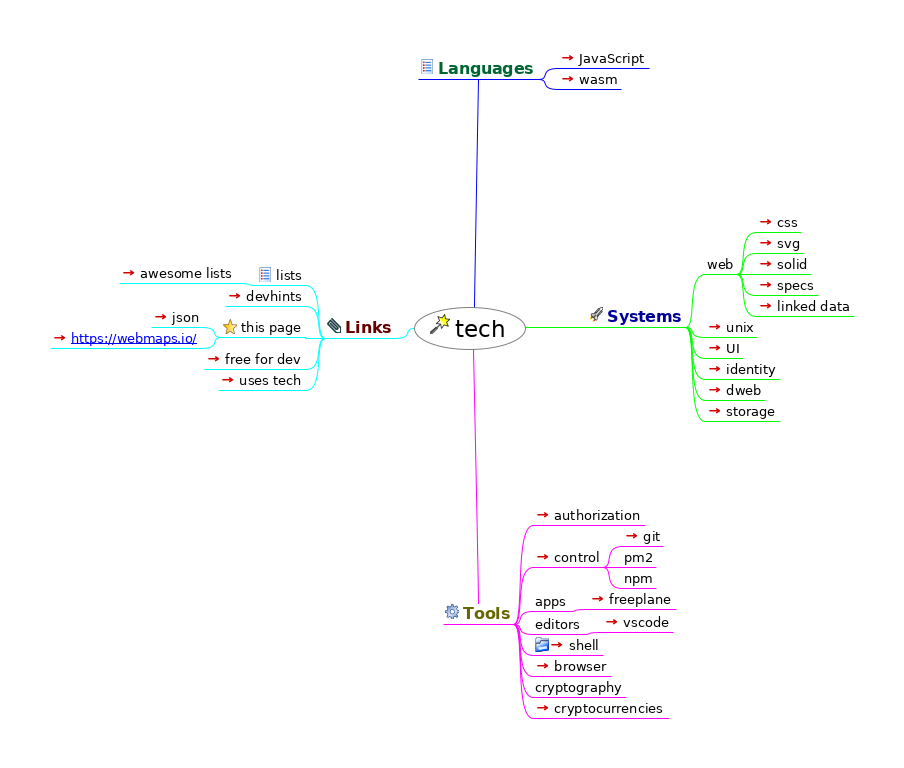
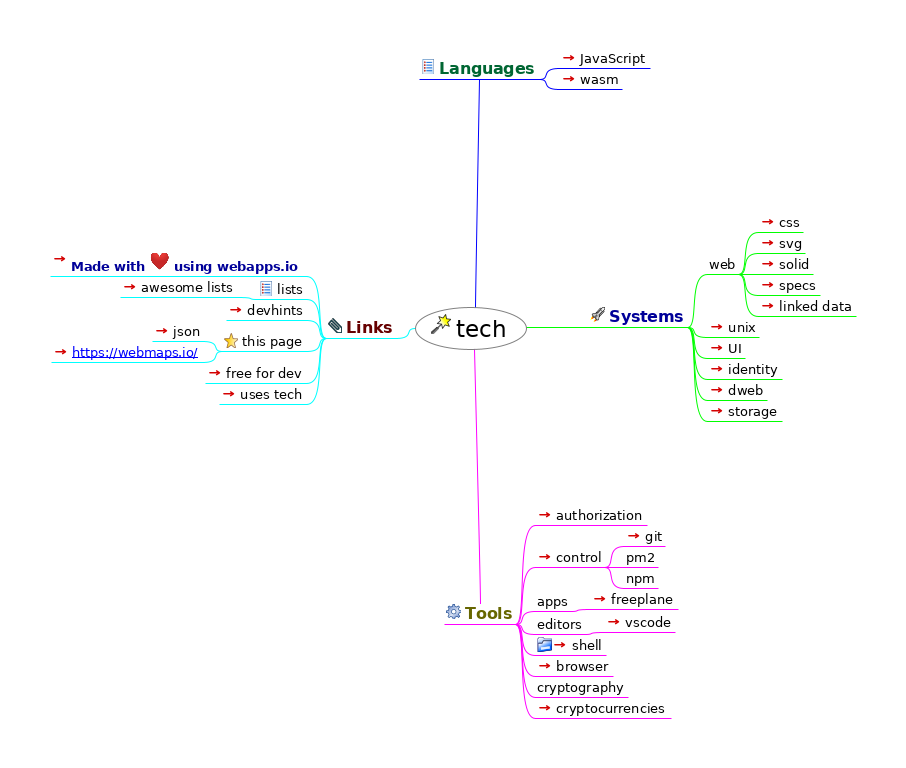
add made with heart

diff --git a/index.html b/index.html
@@ -23,48 +23,51 @@
                    };
                };
           
-          --></script></head><body><h1>tech</h1><div style="width:96%;  padding:2%;  margin-bottom:10px;  border: 0px;  text-align:center;  vertical-align:center;"><img src="index.html_files/image.png" style="margin-bottom:10px; &#9;border: 0px; &#9;text-align:center; &#9;vertical-align:center;" alt="Imagemap" usemap="#fm_imagemap" /></div><map name="fm_imagemap" id="fm_imagemap"><area shape="rect" href="#FMID_237352286FM" alt="tech" title="tech" coords="414,307,526,350" />
-<area shape="rect" href="#FMID_176155545FM" alt="Languages" title="Languages" coords="418,59,539,79" />
-<area shape="rect" href="../JavaScript/index.html" alt="JavaScript" title="JavaScript" coords="558,50,649,68" />
-<area shape="rect" href="languages/wasm/index.html" alt="wasm" title="wasm" coords="558,71,621,89" />
-<area shape="rect" href="#FMID_527312312FM" alt="Systems" title="Systems" coords="587,307,686,327" />
-<area shape="rect" href="#FMID_532002583FM" alt="web" title="web" coords="705,256,737,274" />
-<area shape="rect" href="css.html" alt="css" title="css" coords="756,214,801,232" />
-<area shape="rect" href="https://www.w3schools.com/graphics/svg_reference.asp" alt="svg" title="svg" coords="756,235,803,253" />
-<area shape="rect" href="../solid/index.html" alt="solid" title="solid" coords="756,256,811,274" />
-<area shape="rect" href="../specs/index.html" alt="specs" title="specs" coords="756,277,818,295" />
-<area shape="rect" href="../linkeddata/index.html.html" alt="linked data" title="linked data" coords="756,298,854,316" />
-<area shape="rect" href="unix/index.html" alt="unix" title="unix" coords="705,319,757,337" />
-<area shape="rect" href="UI/index.html" alt="UI" title="UI" coords="705,340,743,358" />
-<area shape="rect" href="identity/index.html" alt="identity" title="identity" coords="705,361,780,379" />
-<area shape="rect" href="dweb/index.html" alt="dweb" title="dweb" coords="705,382,765,400" />
-<area shape="rect" href="storage/index.html" alt="storage" title="storage" coords="705,403,780,421" />
-<area shape="rect" href="#FMID_1810859973FM" alt="Tools" title="Tools" coords="443,604,514,624" />
-<area shape="rect" href="authorization/index.html" alt="authorization" title="authorization" coords="533,507,645,525" />
-<area shape="rect" href="control/index.html" alt="control" title="control" coords="533,549,603,567" />
-<area shape="rect" href="control/git.html" alt="git" title="git" coords="622,528,663,546" />
-<area shape="rect" href="#FMID_901084502FM" alt="pm2" title="pm2" coords="622,549,656,567" />
-<area shape="rect" href="#FMID_677687213FM" alt="npm" title="npm" coords="622,570,656,588" />
-<area shape="rect" href="#FMID_453742222FM" alt="apps" title="apps" coords="533,593,569,611" />
-<area shape="rect" href="freeplane.html" alt="freeplane" title="freeplane" coords="588,591,676,609" />
-<area shape="rect" href="#FMID_1019017499FM" alt="editors" title="editors" coords="533,616,583,634" />
-<area shape="rect" href="https://code.visualstudio.com/" alt="vscode" title="vscode" coords="602,614,673,632" />
-<area shape="rect" href="shell/index.html" alt="shell" title="shell" coords="533,637,603,655" />
-<area shape="rect" href="browser/index.html" alt="browser" title="browser" coords="533,658,611,676" />
-<area shape="rect" href="#FMID_697718730FM" alt="cryptography" title="cryptography" coords="533,679,626,697" />
-<area shape="rect" href="cryptocurrencies/index.html" alt="cryptocurrencies" title="cryptocurrencies" coords="533,700,669,718" />
-<area shape="rect" href="#FMID_777477932FM" alt="Links" title="Links" coords="325,318,395,338" />
-<area shape="rect" href="#FMID_21985093FM" alt="lists" title="lists" coords="256,267,306,285" />
-<area shape="rect" href="https://getawesomeness.herokuapp.com/get/js" alt="awesome lists" title="awesome lists" coords="119,265,237,283" />
-<area shape="rect" href="https://devhints.io/" alt="devhints" title="devhints" coords="225,288,306,306" />
-<area shape="rect" href="#FMID_117142409FM" alt="this page" title="this page" coords="221,319,306,337" />
-<area shape="rect" href="index.json" alt="json" title="json" coords="151,309,202,327" />
-<area shape="rect" href="https://webmaps.io/" alt="https://webmaps.io/" title="https://webmaps.io/" coords="50,330,202,348" />
-<area shape="rect" href="https://free-for.dev/#/" alt="free for dev" title="free for dev" coords="204,351,306,369" />
-<area shape="rect" href="https://uses.tech/" alt="uses tech" title="uses tech" coords="218,372,306,390" />
+          --></script></head><body><h1>tech</h1><div style="width:96%;  padding:2%;  margin-bottom:10px;  border: 0px;  text-align:center;  vertical-align:center;"><img src="index.html_files/image.png" style="margin-bottom:10px; &#9;border: 0px; &#9;text-align:center; &#9;vertical-align:center;" alt="Imagemap" usemap="#fm_imagemap" /></div><map name="fm_imagemap" id="fm_imagemap"><area shape="rect" href="#FMID_237352286FM" alt="tech" title="tech" coords="415,307,527,350" />
+<area shape="rect" href="#FMID_176155545FM" alt="Languages" title="Languages" coords="419,59,540,79" />
+<area shape="rect" href="../JavaScript/index.html" alt="JavaScript" title="JavaScript" coords="559,50,650,68" />
+<area shape="rect" href="languages/wasm/index.html" alt="wasm" title="wasm" coords="559,71,622,89" />
+<area shape="rect" href="#FMID_527312312FM" alt="Systems" title="Systems" coords="588,307,688,327" />
+<area shape="rect" href="#FMID_532002583FM" alt="web" title="web" coords="707,256,739,274" />
+<area shape="rect" href="css.html" alt="css" title="css" coords="758,214,803,232" />
+<area shape="rect" href="https://www.w3schools.com/graphics/svg_reference.asp" alt="svg" title="svg" coords="758,235,805,253" />
+<area shape="rect" href="../solid/index.html" alt="solid" title="solid" coords="758,256,813,274" />
+<area shape="rect" href="../specs/index.html" alt="specs" title="specs" coords="758,277,820,295" />
+<area shape="rect" href="../linkeddata/index.html" alt="linked data" title="linked data" coords="758,298,856,316" />
+<area shape="rect" href="unix/index.html" alt="unix" title="unix" coords="707,319,759,337" />
+<area shape="rect" href="UI/index.html" alt="UI" title="UI" coords="707,340,745,358" />
+<area shape="rect" href="identity/index.html" alt="identity" title="identity" coords="707,361,782,379" />
+<area shape="rect" href="dweb/index.html" alt="dweb" title="dweb" coords="707,382,767,400" />
+<area shape="rect" href="storage/index.html" alt="storage" title="storage" coords="707,403,782,421" />
+<area shape="rect" href="#FMID_1810859973FM" alt="Tools" title="Tools" coords="444,604,516,624" />
+<area shape="rect" href="authorization/index.html" alt="authorization" title="authorization" coords="535,507,647,525" />
+<area shape="rect" href="control/index.html" alt="control" title="control" coords="535,549,605,567" />
+<area shape="rect" href="control/git.html" alt="git" title="git" coords="624,528,665,546" />
+<area shape="rect" href="#FMID_901084502FM" alt="pm2" title="pm2" coords="624,549,658,567" />
+<area shape="rect" href="#FMID_677687213FM" alt="npm" title="npm" coords="624,570,658,588" />
+<area shape="rect" href="#FMID_453742222FM" alt="apps" title="apps" coords="535,593,571,611" />
+<area shape="rect" href="freeplane.html" alt="freeplane" title="freeplane" coords="590,591,678,609" />
+<area shape="rect" href="#FMID_1019017499FM" alt="editors" title="editors" coords="535,616,585,634" />
+<area shape="rect" href="https://code.visualstudio.com/" alt="vscode" title="vscode" coords="604,614,675,632" />
+<area shape="rect" href="shell/index.html" alt="shell" title="shell" coords="535,637,606,655" />
+<area shape="rect" href="browser/index.html" alt="browser" title="browser" coords="535,658,613,676" />
+<area shape="rect" href="#FMID_697718730FM" alt="cryptography" title="cryptography" coords="535,679,628,697" />
+<area shape="rect" href="cryptocurrencies/index.html" alt="cryptocurrencies" title="cryptocurrencies" coords="535,700,671,718" />
+<area shape="rect" href="#FMID_777477932FM" alt="Links" title="Links" coords="326,318,396,338" />
+<area shape="rect" href="https://webapps.io/" alt="Made with  using webapps.io" title="Made with  using webapps.io" coords="50,251,307,276" />
+<area shape="rect" href="#FMID_21985093FM" alt="lists" title="lists" coords="257,281,307,299" />
+<area shape="rect" href="https://getawesomeness.herokuapp.com/get/js" alt="awesome lists" title="awesome lists" coords="120,279,238,297" />
+<area shape="rect" href="https://devhints.io/" alt="devhints" title="devhints" coords="226,302,307,320" />
+<area shape="rect" href="#FMID_117142409FM" alt="this page" title="this page" coords="222,333,307,351" />
+<area shape="rect" href="index.json" alt="json" title="json" coords="152,323,203,341" />
+<area shape="rect" href="https://webmaps.io/" alt="https://webmaps.io/" title="https://webmaps.io/" coords="51,344,203,362" />
+<area shape="rect" href="https://free-for.dev/#/" alt="free for dev" title="free for dev" coords="205,365,307,383" />
+<area shape="rect" href="https://uses.tech/" alt="uses tech" title="uses tech" coords="219,386,307,404" />
 </map>
 
-<div class="node"><img src="index.html_files/hide.png" class="hideshow" alt="hide" onClick="toggle(&quot;N65543&quot;)" id="imgN65543" /><img src="index.html_files/icons/wizard.svg" alt="wizard" /> <a id="FMID_237352286FM" /><div class="nodecontent" style="color:#000000;font-size:150%;">tech</div><div class="content" id="N65543"><div class="node"><img src="index.html_files/hide.png" class="hideshow" alt="hide" onClick="toggle(&quot;N66444&quot;)" id="imgN66444" /><img src="index.html_files/icons/list.svg" alt="list" /> <a id="FMID_176155545FM" /><div class="nodecontent" style="color:#006633;font-size:100%;font-weight:bold;">Languages</div><div class="content" id="N66444"><div class="node"><img src="index.html_files/leaf.png" class="hideshow" alt="leaf" /><a id="FMID_546595456FM" /><div class="nodecontent" style="color:#000000;font-size:83%;"><a href="../JavaScript/index.html">JavaScript</a> <a href="../JavaScript/index.html"><img src="index.html_files/ilink.png" alt="User Link" style="border-width:0" /></a></div></div><div class="node"><img src="index.html_files/leaf.png" class="hideshow" alt="leaf" /><a id="FMID_1992588014FM" /><div class="nodecontent" style="color:#000000;font-size:83%;"><a href="languages/wasm/index.html">wasm</a> <a href="languages/wasm/index.html"><img src="index.html_files/ilink.png" alt="User Link" style="border-width:0" /></a></div></div></div></div><div class="node"><img src="index.html_files/hide.png" class="hideshow" alt="hide" onClick="toggle(&quot;N66562&quot;)" id="imgN66562" /><img src="index.html_files/icons/launch.svg" alt="launch" /> <a id="FMID_527312312FM" /><div class="nodecontent" style="color:#000099;font-size:100%;font-weight:bold;">Systems</div><div class="content" id="N66562"><div class="node"><img src="index.html_files/hide.png" class="hideshow" alt="hide" onClick="toggle(&quot;N66605&quot;)" id="imgN66605" /><a id="FMID_532002583FM" /><div class="nodecontent" style="color:#000000;font-size:83%;">web</div><div class="content" id="N66605"><div class="node"><img src="index.html_files/leaf.png" class="hideshow" alt="leaf" /><a id="FMID_1846113849FM" /><div class="nodecontent" style="color:#000000;font-size:83%;"><a href="css.html">css</a> <a href="css.html"><img src="index.html_files/ilink.png" alt="User Link" style="border-width:0" /></a></div></div><div class="node"><img src="index.html_files/leaf.png" class="hideshow" alt="leaf" /><a id="FMID_428457042FM" /><div class="nodecontent" style="color:#000000;font-size:83%;"><a href="https://www.w3schools.com/graphics/svg_reference.asp">svg</a> <a href="https://www.w3schools.com/graphics/svg_reference.asp"><img src="index.html_files/ilink.png" alt="User Link" style="border-width:0" /></a></div></div><div class="node"><img src="index.html_files/leaf.png" class="hideshow" alt="leaf" /><a id="FMID_1070141955FM" /><div class="nodecontent" style="color:#000000;font-size:83%;"><a href="../solid/index.html">solid</a> <a href="../solid/index.html"><img src="index.html_files/ilink.png" alt="User Link" style="border-width:0" /></a></div></div><div class="node"><img src="index.html_files/leaf.png" class="hideshow" alt="leaf" /><a id="FMID_1682894723FM" /><div class="nodecontent" style="color:#000000;font-size:83%;"><a href="../specs/index.html">specs</a> <a href="../specs/index.html"><img src="index.html_files/ilink.png" alt="User Link" style="border-width:0" /></a></div></div><div class="node"><img src="index.html_files/leaf.png" class="hideshow" alt="leaf" /><a id="FMID_1972132930FM" /><div class="nodecontent" style="color:#000000;font-size:83%;"><a href="../linkeddata/index.html.html">linked data</a> <a href="../linkeddata/index.html.html"><img src="index.html_files/ilink.png" alt="User Link" style="border-width:0" /></a></div></div></div></div><div class="node"><img src="index.html_files/leaf.png" class="hideshow" alt="leaf" /><a id="FMID_7338816FM" /><div class="nodecontent" style="color:#000000;font-size:83%;"><a href="unix/index.html">unix</a> <a href="unix/index.html"><img src="index.html_files/ilink.png" alt="User Link" style="border-width:0" /></a></div></div><div class="node"><img src="index.html_files/leaf.png" class="hideshow" alt="leaf" /><a id="FMID_1601511624FM" /><div class="nodecontent" style="color:#000000;font-size:83%;"><a href="UI/index.html">UI</a> <a href="UI/index.html"><img src="index.html_files/ilink.png" alt="User Link" style="border-width:0" /></a></div></div><div class="node"><img src="index.html_files/leaf.png" class="hideshow" alt="leaf" /><a id="FMID_879802849FM" /><div class="nodecontent" style="color:#000000;font-size:83%;"><a href="identity/index.html">identity</a> <a href="identity/index.html"><img src="index.html_files/ilink.png" alt="User Link" style="border-width:0" /></a></div></div><div class="node"><img src="index.html_files/leaf.png" class="hideshow" alt="leaf" /><a id="FMID_1672732454FM" /><div class="nodecontent" style="color:#000000;font-size:83%;"><a href="dweb/index.html">dweb</a> <a href="dweb/index.html"><img src="index.html_files/ilink.png" alt="User Link" style="border-width:0" /></a></div></div><div class="node"><img src="index.html_files/leaf.png" class="hideshow" alt="leaf" /><a id="FMID_1360108173FM" /><div class="nodecontent" style="color:#000000;font-size:83%;"><a href="storage/index.html">storage</a> <a href="storage/index.html"><img src="index.html_files/ilink.png" alt="User Link" style="border-width:0" /></a></div></div></div></div><div class="node"><img src="index.html_files/hide.png" class="hideshow" alt="hide" onClick="toggle(&quot;N67012&quot;)" id="imgN67012" /><img src="index.html_files/icons/executable.svg" alt="executable" /> <a id="FMID_1810859973FM" /><div class="nodecontent" style="color:#666600;font-size:100%;font-weight:bold;">Tools</div><div class="content" id="N67012"><div class="node"><img src="index.html_files/leaf.png" class="hideshow" alt="leaf" /><a id="FMID_1568925180FM" /><div class="nodecontent" style="color:#000000;font-size:83%;"><a href="authorization/index.html">authorization</a> <a href="authorization/index.html"><img src="index.html_files/ilink.png" alt="User Link" style="border-width:0" /></a></div></div><div class="node"><img src="index.html_files/hide.png" class="hideshow" alt="hide" onClick="toggle(&quot;N67092&quot;)" id="imgN67092" /><a id="FMID_1041005677FM" /><div class="nodecontent" style="color:#000000;font-size:83%;"><a href="control/index.html">control</a> <a href="control/index.html"><img src="index.html_files/ilink.png" alt="User Link" style="border-width:0" /></a></div><div class="content" id="N67092"><div class="node"><img src="index.html_files/leaf.png" class="hideshow" alt="leaf" /><a id="FMID_1536156446FM" /><div class="nodecontent" style="color:#000000;font-size:83%;"><a href="control/git.html">git</a> <a href="control/git.html"><img src="index.html_files/ilink.png" alt="User Link" style="border-width:0" /></a></div></div><div class="node"><img src="index.html_files/leaf.png" class="hideshow" alt="leaf" /><a id="FMID_901084502FM" /><div class="nodecontent" style="color:#000000;font-size:83%;">pm2</div></div><div class="node"><img src="index.html_files/leaf.png" class="hideshow" alt="leaf" /><a id="FMID_677687213FM" /><div class="nodecontent" style="color:#000000;font-size:83%;">npm</div></div></div></div><div class="node"><img src="index.html_files/hide.png" class="hideshow" alt="hide" onClick="toggle(&quot;N67238&quot;)" id="imgN67238" /><a id="FMID_453742222FM" /><div class="nodecontent" style="color:#000000;font-size:83%;">apps</div><div class="content" id="N67238"><div class="node"><img src="index.html_files/leaf.png" class="hideshow" alt="leaf" /><a id="FMID_756649779FM" /><div class="nodecontent" style="color:#000000;font-size:83%;"><a href="freeplane.html">freeplane</a> <a href="freeplane.html"><img src="index.html_files/ilink.png" alt="User Link" style="border-width:0" /></a></div></div></div></div><div class="node"><img src="index.html_files/hide.png" class="hideshow" alt="hide" onClick="toggle(&quot;N67311&quot;)" id="imgN67311" /><a id="FMID_1019017499FM" /><div class="nodecontent" style="color:#000000;font-size:83%;">editors</div><div class="content" id="N67311"><div class="node"><img src="index.html_files/leaf.png" class="hideshow" alt="leaf" /><a id="FMID_847676993FM" /><div class="nodecontent" style="color:#000000;font-size:83%;"><a href="https://code.visualstudio.com/">vscode</a> <a href="https://code.visualstudio.com/"><img src="index.html_files/ilink.png" alt="User Link" style="border-width:0" /></a></div></div></div></div><div class="node"><img src="index.html_files/leaf.png" class="hideshow" alt="leaf" /><img src="index.html_files/icons/folder.svg" alt="folder" /> <a id="FMID_1968717210FM" /><div class="nodecontent" style="color:#000000;font-size:83%;"><a href="shell/index.html">shell</a> <a href="shell/index.html"><img src="index.html_files/ilink.png" alt="User Link" style="border-width:0" /></a></div></div><div class="node"><img src="index.html_files/leaf.png" class="hideshow" alt="leaf" /><a id="FMID_220365950FM" /><div class="nodecontent" style="color:#000000;font-size:83%;"><a href="browser/index.html">browser</a> <a href="browser/index.html"><img src="index.html_files/ilink.png" alt="User Link" style="border-width:0" /></a></div></div><div class="node"><img src="index.html_files/leaf.png" class="hideshow" alt="leaf" /><a id="FMID_697718730FM" /><div class="nodecontent" style="color:#000000;font-size:83%;">cryptography</div></div><div class="node"><img src="index.html_files/leaf.png" class="hideshow" alt="leaf" /><a id="FMID_653198444FM" /><div class="nodecontent" style="color:#000000;font-size:83%;"><a href="cryptocurrencies/index.html">cryptocurrencies</a> <a href="cryptocurrencies/index.html"><img src="index.html_files/ilink.png" alt="User Link" style="border-width:0" /></a></div></div></div></div><div class="node"><img src="index.html_files/hide.png" class="hideshow" alt="hide" onClick="toggle(&quot;N67537&quot;)" id="imgN67537" /><img src="index.html_files/icons/attach.svg" alt="attach" /> <a id="FMID_777477932FM" /><div class="nodecontent" style="color:#660000;font-size:100%;font-weight:bold;">Links</div><div class="content" id="N67537"><div class="node"><img src="index.html_files/hide.png" class="hideshow" alt="hide" onClick="toggle(&quot;N67578&quot;)" id="imgN67578" /><img src="index.html_files/icons/list.svg" alt="list" /> <a id="FMID_21985093FM" /><div class="nodecontent" style="color:#000000;font-size:83%;">lists</div><div class="content" id="N67578"><div class="node"><img src="index.html_files/leaf.png" class="hideshow" alt="leaf" /><a id="FMID_588856980FM" /><div class="nodecontent" style="color:#000000;font-size:83%;"><a href="https://getawesomeness.herokuapp.com/get/js">awesome lists</a> <a href="https://getawesomeness.herokuapp.com/get/js"><img src="index.html_files/ilink.png" alt="User Link" style="border-width:0" /></a></div></div></div></div><div class="node"><img src="index.html_files/leaf.png" class="hideshow" alt="leaf" /><a id="FMID_1033702527FM" /><div class="nodecontent" style="color:#000000;font-size:83%;"><a href="https://devhints.io/">devhints</a> <a href="https://devhints.io/"><img src="index.html_files/ilink.png" alt="User Link" style="border-width:0" /></a></div></div><div class="node"><img src="index.html_files/hide.png" class="hideshow" alt="hide" onClick="toggle(&quot;N67693&quot;)" id="imgN67693" /><img src="index.html_files/icons/bookmark.svg" alt="bookmark" /> <a id="FMID_117142409FM" /><div class="nodecontent" style="color:#000000;font-size:83%;">this page</div><div class="content" id="N67693"><div class="node"><img src="index.html_files/leaf.png" class="hideshow" alt="leaf" /><a id="FMID_485260235FM" /><div class="nodecontent" style="color:#000000;font-size:83%;"><a href="index.json">json</a> <a href="index.json"><img src="index.html_files/ilink.png" alt="User Link" style="border-width:0" /></a></div></div><div class="node"><img src="index.html_files/leaf.png" class="hideshow" alt="leaf" /><a id="FMID_1630439828FM" /><div class="nodecontent" style="color:#000000;font-size:83%;"><a href="https://webmaps.io/">
+<div class="node"><img src="index.html_files/hide.png" class="hideshow" alt="hide" onClick="toggle(&quot;N65543&quot;)" id="imgN65543" /><img src="index.html_files/icons/wizard.svg" alt="wizard" /> <a id="FMID_237352286FM" /><div class="nodecontent" style="color:#000000;font-size:150%;">tech</div><div class="content" id="N65543"><div class="node"><img src="index.html_files/hide.png" class="hideshow" alt="hide" onClick="toggle(&quot;N66444&quot;)" id="imgN66444" /><img src="index.html_files/icons/list.svg" alt="list" /> <a id="FMID_176155545FM" /><div class="nodecontent" style="color:#006633;font-size:100%;font-weight:bold;">Languages</div><div class="content" id="N66444"><div class="node"><img src="index.html_files/leaf.png" class="hideshow" alt="leaf" /><a id="FMID_546595456FM" /><div class="nodecontent" style="color:#000000;font-size:83%;"><a href="../JavaScript/index.html">JavaScript</a> <a href="../JavaScript/index.html"><img src="index.html_files/ilink.png" alt="User Link" style="border-width:0" /></a></div></div><div class="node"><img src="index.html_files/leaf.png" class="hideshow" alt="leaf" /><a id="FMID_1992588014FM" /><div class="nodecontent" style="color:#000000;font-size:83%;"><a href="languages/wasm/index.html">wasm</a> <a href="languages/wasm/index.html"><img src="index.html_files/ilink.png" alt="User Link" style="border-width:0" /></a></div></div></div></div><div class="node"><img src="index.html_files/hide.png" class="hideshow" alt="hide" onClick="toggle(&quot;N66562&quot;)" id="imgN66562" /><img src="index.html_files/icons/launch.svg" alt="launch" /> <a id="FMID_527312312FM" /><div class="nodecontent" style="color:#000099;font-size:100%;font-weight:bold;">Systems</div><div class="content" id="N66562"><div class="node"><img src="index.html_files/hide.png" class="hideshow" alt="hide" onClick="toggle(&quot;N66605&quot;)" id="imgN66605" /><a id="FMID_532002583FM" /><div class="nodecontent" style="color:#000000;font-size:83%;">web</div><div class="content" id="N66605"><div class="node"><img src="index.html_files/leaf.png" class="hideshow" alt="leaf" /><a id="FMID_1846113849FM" /><div class="nodecontent" style="color:#000000;font-size:83%;"><a href="css.html">css</a> <a href="css.html"><img src="index.html_files/ilink.png" alt="User Link" style="border-width:0" /></a></div></div><div class="node"><img src="index.html_files/leaf.png" class="hideshow" alt="leaf" /><a id="FMID_428457042FM" /><div class="nodecontent" style="color:#000000;font-size:83%;"><a href="https://www.w3schools.com/graphics/svg_reference.asp">svg</a> <a href="https://www.w3schools.com/graphics/svg_reference.asp"><img src="index.html_files/ilink.png" alt="User Link" style="border-width:0" /></a></div></div><div class="node"><img src="index.html_files/leaf.png" class="hideshow" alt="leaf" /><a id="FMID_1070141955FM" /><div class="nodecontent" style="color:#000000;font-size:83%;"><a href="../solid/index.html">solid</a> <a href="../solid/index.html"><img src="index.html_files/ilink.png" alt="User Link" style="border-width:0" /></a></div></div><div class="node"><img src="index.html_files/leaf.png" class="hideshow" alt="leaf" /><a id="FMID_1682894723FM" /><div class="nodecontent" style="color:#000000;font-size:83%;"><a href="../specs/index.html">specs</a> <a href="../specs/index.html"><img src="index.html_files/ilink.png" alt="User Link" style="border-width:0" /></a></div></div><div class="node"><img src="index.html_files/leaf.png" class="hideshow" alt="leaf" /><a id="FMID_1972132930FM" /><div class="nodecontent" style="color:#000000;font-size:83%;"><a href="../linkeddata/index.html">linked data</a> <a href="../linkeddata/index.html"><img src="index.html_files/ilink.png" alt="User Link" style="border-width:0" /></a></div></div></div></div><div class="node"><img src="index.html_files/leaf.png" class="hideshow" alt="leaf" /><a id="FMID_7338816FM" /><div class="nodecontent" style="color:#000000;font-size:83%;"><a href="unix/index.html">unix</a> <a href="unix/index.html"><img src="index.html_files/ilink.png" alt="User Link" style="border-width:0" /></a></div></div><div class="node"><img src="index.html_files/leaf.png" class="hideshow" alt="leaf" /><a id="FMID_1601511624FM" /><div class="nodecontent" style="color:#000000;font-size:83%;"><a href="UI/index.html">UI</a> <a href="UI/index.html"><img src="index.html_files/ilink.png" alt="User Link" style="border-width:0" /></a></div></div><div class="node"><img src="index.html_files/leaf.png" class="hideshow" alt="leaf" /><a id="FMID_879802849FM" /><div class="nodecontent" style="color:#000000;font-size:83%;"><a href="identity/index.html">identity</a> <a href="identity/index.html"><img src="index.html_files/ilink.png" alt="User Link" style="border-width:0" /></a></div></div><div class="node"><img src="index.html_files/leaf.png" class="hideshow" alt="leaf" /><a id="FMID_1672732454FM" /><div class="nodecontent" style="color:#000000;font-size:83%;"><a href="dweb/index.html">dweb</a> <a href="dweb/index.html"><img src="index.html_files/ilink.png" alt="User Link" style="border-width:0" /></a></div></div><div class="node"><img src="index.html_files/leaf.png" class="hideshow" alt="leaf" /><a id="FMID_1360108173FM" /><div class="nodecontent" style="color:#000000;font-size:83%;"><a href="storage/index.html">storage</a> <a href="storage/index.html"><img src="index.html_files/ilink.png" alt="User Link" style="border-width:0" /></a></div></div></div></div><div class="node"><img src="index.html_files/hide.png" class="hideshow" alt="hide" onClick="toggle(&quot;N67012&quot;)" id="imgN67012" /><img src="index.html_files/icons/executable.svg" alt="executable" /> <a id="FMID_1810859973FM" /><div class="nodecontent" style="color:#666600;font-size:100%;font-weight:bold;">Tools</div><div class="content" id="N67012"><div class="node"><img src="index.html_files/leaf.png" class="hideshow" alt="leaf" /><a id="FMID_1568925180FM" /><div class="nodecontent" style="color:#000000;font-size:83%;"><a href="authorization/index.html">authorization</a> <a href="authorization/index.html"><img src="index.html_files/ilink.png" alt="User Link" style="border-width:0" /></a></div></div><div class="node"><img src="index.html_files/hide.png" class="hideshow" alt="hide" onClick="toggle(&quot;N67092&quot;)" id="imgN67092" /><a id="FMID_1041005677FM" /><div class="nodecontent" style="color:#000000;font-size:83%;"><a href="control/index.html">control</a> <a href="control/index.html"><img src="index.html_files/ilink.png" alt="User Link" style="border-width:0" /></a></div><div class="content" id="N67092"><div class="node"><img src="index.html_files/leaf.png" class="hideshow" alt="leaf" /><a id="FMID_1536156446FM" /><div class="nodecontent" style="color:#000000;font-size:83%;"><a href="control/git.html">git</a> <a href="control/git.html"><img src="index.html_files/ilink.png" alt="User Link" style="border-width:0" /></a></div></div><div class="node"><img src="index.html_files/leaf.png" class="hideshow" alt="leaf" /><a id="FMID_901084502FM" /><div class="nodecontent" style="color:#000000;font-size:83%;">pm2</div></div><div class="node"><img src="index.html_files/leaf.png" class="hideshow" alt="leaf" /><a id="FMID_677687213FM" /><div class="nodecontent" style="color:#000000;font-size:83%;">npm</div></div></div></div><div class="node"><img src="index.html_files/hide.png" class="hideshow" alt="hide" onClick="toggle(&quot;N67238&quot;)" id="imgN67238" /><a id="FMID_453742222FM" /><div class="nodecontent" style="color:#000000;font-size:83%;">apps</div><div class="content" id="N67238"><div class="node"><img src="index.html_files/leaf.png" class="hideshow" alt="leaf" /><a id="FMID_756649779FM" /><div class="nodecontent" style="color:#000000;font-size:83%;"><a href="freeplane.html">freeplane</a> <a href="freeplane.html"><img src="index.html_files/ilink.png" alt="User Link" style="border-width:0" /></a></div></div></div></div><div class="node"><img src="index.html_files/hide.png" class="hideshow" alt="hide" onClick="toggle(&quot;N67311&quot;)" id="imgN67311" /><a id="FMID_1019017499FM" /><div class="nodecontent" style="color:#000000;font-size:83%;">editors</div><div class="content" id="N67311"><div class="node"><img src="index.html_files/leaf.png" class="hideshow" alt="leaf" /><a id="FMID_847676993FM" /><div class="nodecontent" style="color:#000000;font-size:83%;"><a href="https://code.visualstudio.com/">vscode</a> <a href="https://code.visualstudio.com/"><img src="index.html_files/ilink.png" alt="User Link" style="border-width:0" /></a></div></div></div></div><div class="node"><img src="index.html_files/leaf.png" class="hideshow" alt="leaf" /><img src="index.html_files/icons/folder.svg" alt="folder" /> <a id="FMID_1968717210FM" /><div class="nodecontent" style="color:#000000;font-size:83%;"><a href="shell/index.html">shell</a> <a href="shell/index.html"><img src="index.html_files/ilink.png" alt="User Link" style="border-width:0" /></a></div></div><div class="node"><img src="index.html_files/leaf.png" class="hideshow" alt="leaf" /><a id="FMID_220365950FM" /><div class="nodecontent" style="color:#000000;font-size:83%;"><a href="browser/index.html">browser</a> <a href="browser/index.html"><img src="index.html_files/ilink.png" alt="User Link" style="border-width:0" /></a></div></div><div class="node"><img src="index.html_files/leaf.png" class="hideshow" alt="leaf" /><a id="FMID_697718730FM" /><div class="nodecontent" style="color:#000000;font-size:83%;">cryptography</div></div><div class="node"><img src="index.html_files/leaf.png" class="hideshow" alt="leaf" /><a id="FMID_653198444FM" /><div class="nodecontent" style="color:#000000;font-size:83%;"><a href="cryptocurrencies/index.html">cryptocurrencies</a> <a href="cryptocurrencies/index.html"><img src="index.html_files/ilink.png" alt="User Link" style="border-width:0" /></a></div></div></div></div><div class="node"><img src="index.html_files/hide.png" class="hideshow" alt="hide" onClick="toggle(&quot;N67537&quot;)" id="imgN67537" /><img src="index.html_files/icons/attach.svg" alt="attach" /> <a id="FMID_777477932FM" /><div class="nodecontent" style="color:#660000;font-size:100%;font-weight:bold;">Links</div><div class="content" id="N67537"><div class="node"><img src="index.html_files/leaf.png" class="hideshow" alt="leaf" /><a id="FMID_1974475433FM" /><div class="nodecontent" style="color:#000099;font-size:83%;font-weight:bold;"><a href="https://webapps.io/">
+    Made with <img class="emoji" alt="heart" height="20" width="20" src="https://github.githubassets.com/images/icons/emoji/unicode/2764.png" style="border-top-style: none; border-right-style: none; border-bottom-style: none; border-left-style: none" /> using webapps.io
+  </a> <a href="https://webapps.io/"><img src="index.html_files/ilink.png" alt="User Link" style="border-width:0" /></a></div></div><div class="node"><img src="index.html_files/hide.png" class="hideshow" alt="hide" onClick="toggle(&quot;N67635&quot;)" id="imgN67635" /><img src="index.html_files/icons/list.svg" alt="list" /> <a id="FMID_21985093FM" /><div class="nodecontent" style="color:#000000;font-size:83%;">lists</div><div class="content" id="N67635"><div class="node"><img src="index.html_files/leaf.png" class="hideshow" alt="leaf" /><a id="FMID_588856980FM" /><div class="nodecontent" style="color:#000000;font-size:83%;"><a href="https://getawesomeness.herokuapp.com/get/js">awesome lists</a> <a href="https://getawesomeness.herokuapp.com/get/js"><img src="index.html_files/ilink.png" alt="User Link" style="border-width:0" /></a></div></div></div></div><div class="node"><img src="index.html_files/leaf.png" class="hideshow" alt="leaf" /><a id="FMID_1033702527FM" /><div class="nodecontent" style="color:#000000;font-size:83%;"><a href="https://devhints.io/">devhints</a> <a href="https://devhints.io/"><img src="index.html_files/ilink.png" alt="User Link" style="border-width:0" /></a></div></div><div class="node"><img src="index.html_files/hide.png" class="hideshow" alt="hide" onClick="toggle(&quot;N67750&quot;)" id="imgN67750" /><img src="index.html_files/icons/bookmark.svg" alt="bookmark" /> <a id="FMID_117142409FM" /><div class="nodecontent" style="color:#000000;font-size:83%;">this page</div><div class="content" id="N67750"><div class="node"><img src="index.html_files/leaf.png" class="hideshow" alt="leaf" /><a id="FMID_485260235FM" /><div class="nodecontent" style="color:#000000;font-size:83%;"><a href="index.json">json</a> <a href="index.json"><img src="index.html_files/ilink.png" alt="User Link" style="border-width:0" /></a></div></div><div class="node"><img src="index.html_files/leaf.png" class="hideshow" alt="leaf" /><a id="FMID_1630439828FM" /><div class="nodecontent" style="color:#000000;font-size:83%;"><a href="https://webmaps.io/">
     <a http-equiv="content-type" content="text/html; charset=utf-8" href="https://webmaps.io/">https://webmaps.io/</a>
   </a> <a href="https://webmaps.io/"><img src="index.html_files/ilink.png" alt="User Link" style="border-width:0" /></a></div></div></div></div><div class="node"><img src="index.html_files/leaf.png" class="hideshow" alt="leaf" /><a id="FMID_1577207701FM" /><div class="nodecontent" style="color:#000000;font-size:83%;"><a href="https://free-for.dev/#/">free for dev</a> <a href="https://free-for.dev/#/"><img src="index.html_files/ilink.png" alt="User Link" style="border-width:0" /></a></div></div><div class="node"><img src="index.html_files/leaf.png" class="hideshow" alt="leaf" /><a id="FMID_1315399913FM" /><div class="nodecontent" style="color:#000000;font-size:83%;"><a href="https://uses.tech/">uses tech</a> <a href="https://uses.tech/"><img src="index.html_files/ilink.png" alt="User Link" style="border-width:0" /></a></div></div></div></div></div></div>
 </body></html>

diff --git a/index.mm b/index.mm
@@ -81,7 +81,7 @@
 <node TEXT="svg" ID="ID_428457042" CREATED="1571334566267" MODIFIED="1571336723249" LINK="https://www.w3schools.com/graphics/svg_reference.asp"/>
 <node TEXT="solid" ID="ID_1070141955" CREATED="1572957566339" MODIFIED="1573024605205" LINK="../solid/index.mm"/>
 <node TEXT="specs" ID="ID_1682894723" CREATED="1573041656991" MODIFIED="1574594852027" LINK="../specs/index.mm"/>
-<node TEXT="linked data" ID="ID_1972132930" CREATED="1578577934328" MODIFIED="1578577934340" LINK="../linkeddata/index.html.mm">
+<node TEXT="linked data" ID="ID_1972132930" CREATED="1578577934328" MODIFIED="1578926955881" LINK="../linkeddata/index.mm">
 <edge STYLE="bezier" COLOR="#00ff00" WIDTH="thin"/>
 </node>
 </node>
@@ -126,6 +126,19 @@
 <icon BUILTIN="attach"/>
 <font SIZE="12" BOLD="true"/>
 <edge COLOR="#00ffff"/>
+<node ID="ID_1974475433" CREATED="1578928125418" MODIFIED="1578928638703" LINK="https://webapps.io/" COLOR="#000099"><richcontent TYPE="NODE">
+
+<html>
+  <head>
+    
+  </head>
+  <body>
+    Made with <img class="emoji" alt="heart" height="20" width="20" src="https://github.githubassets.com/images/icons/emoji/unicode/2764.png" style="border-top-style: none; border-right-style: none; border-bottom-style: none; border-left-style: none"/>&#160;using webapps.io
+  </body>
+</html>
+</richcontent>
+<font SIZE="10" BOLD="true"/>
+</node>
 <node TEXT="lists" ID="ID_21985093" CREATED="1571731255998" MODIFIED="1572498673983">
 <icon BUILTIN="list"/>
 <node TEXT="awesome lists" ID="ID_588856980" CREATED="1571731259435" MODIFIED="1572498667633" LINK="https://getawesomeness.herokuapp.com/get/js"/>
